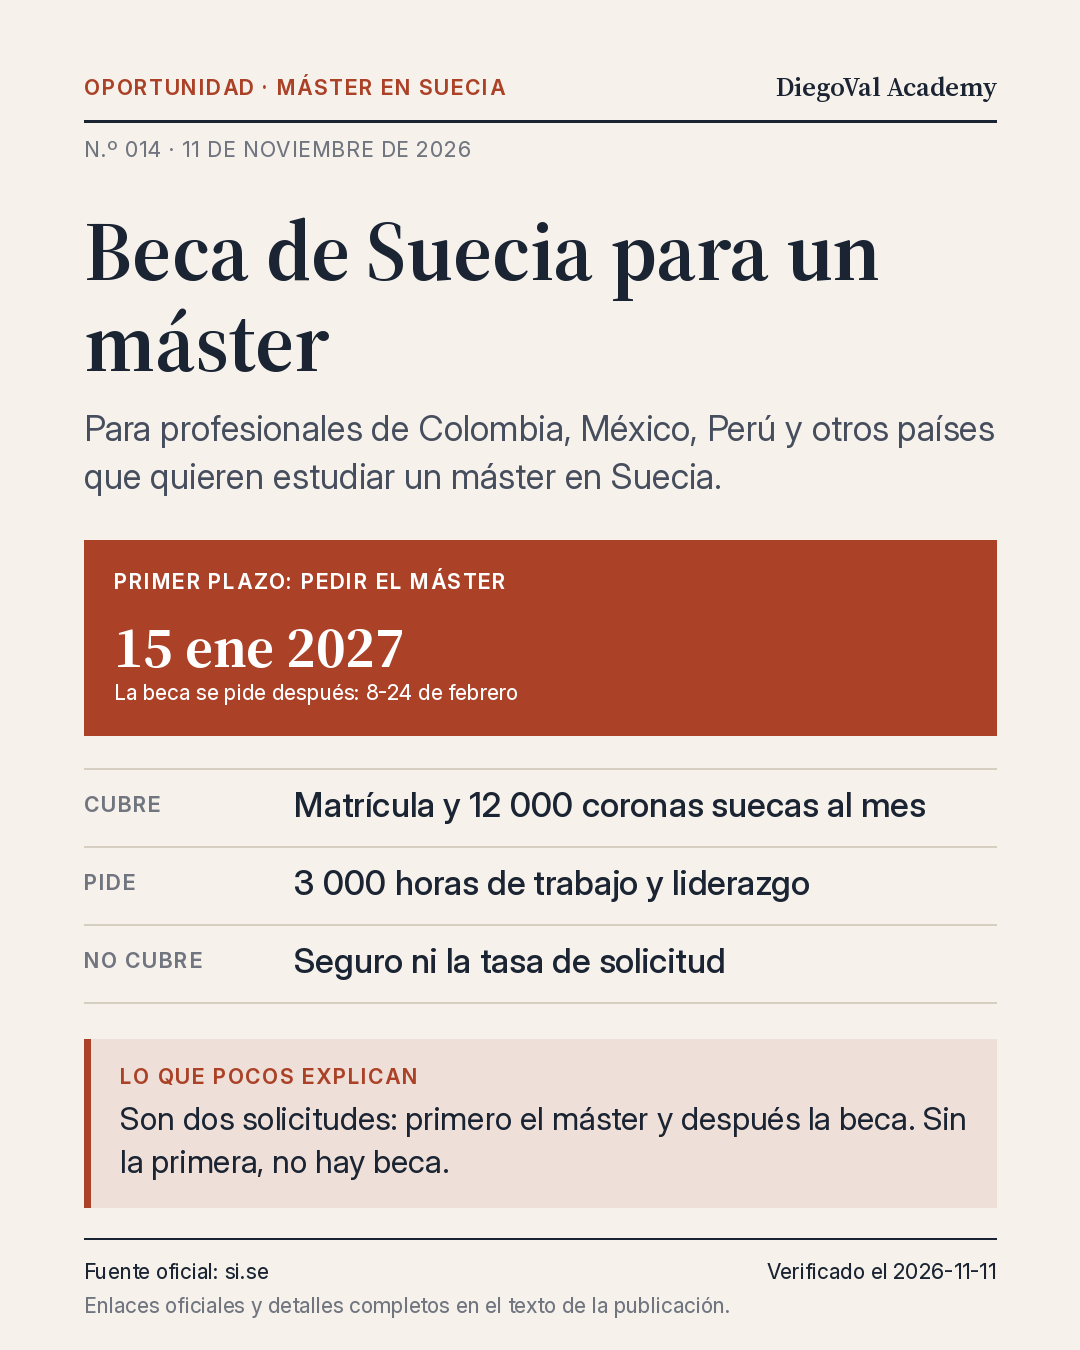
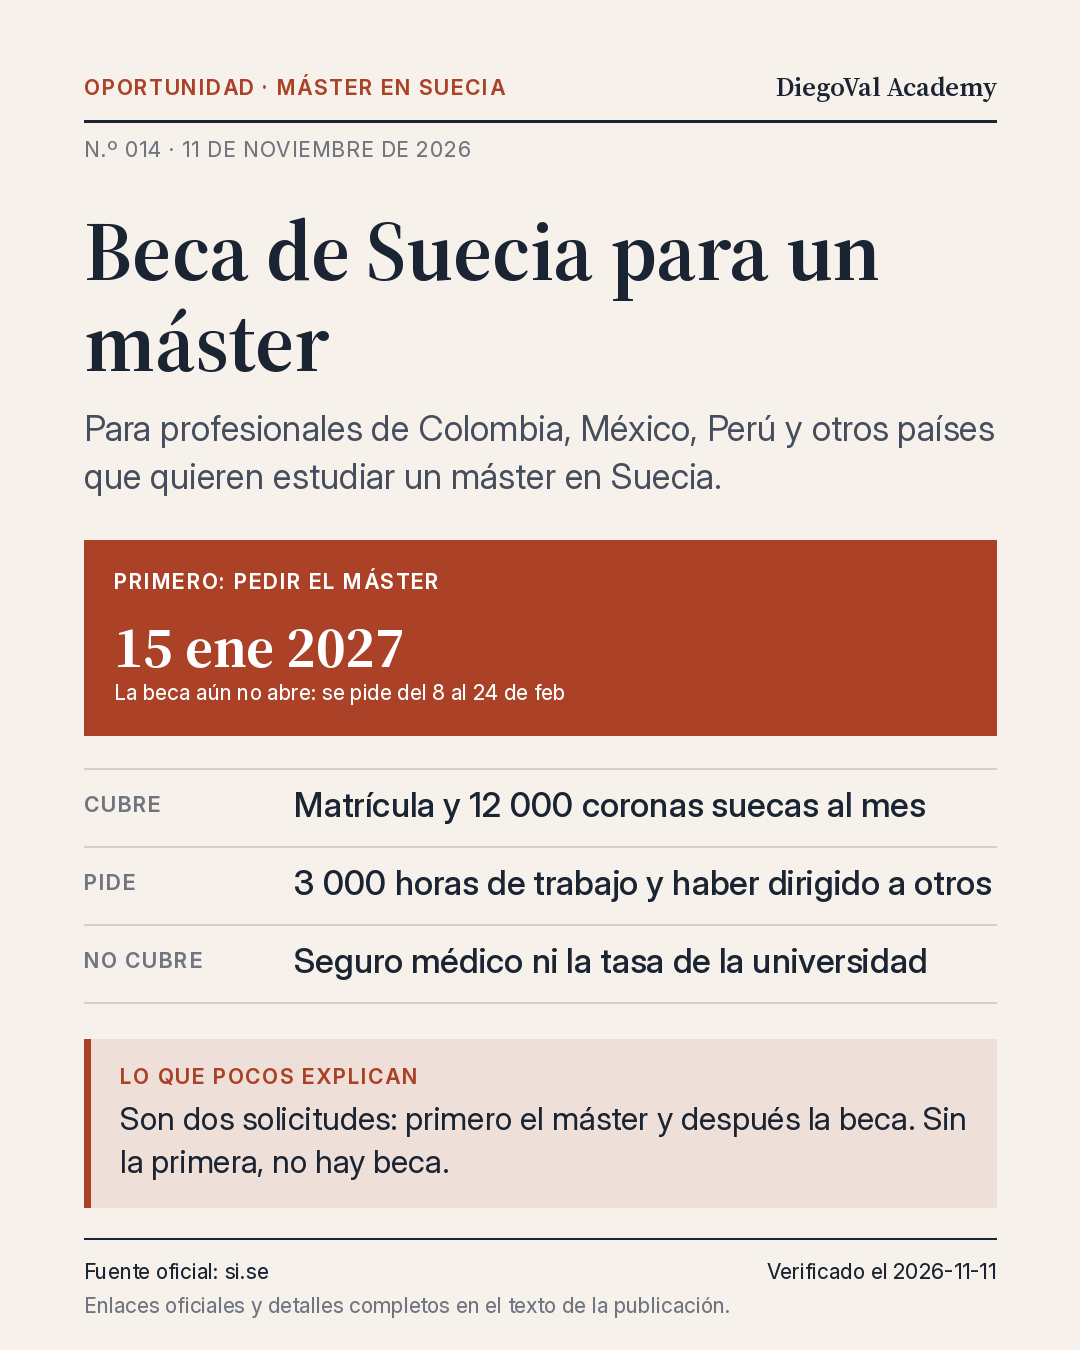
2026-11-11_miercoles_beca-suecia-profesionales: correcciones de lenguaje sencillo (pendiente de segunda verificación)
Claude-Session: https://claude.ai/code/session_01HRCw35JqbydqypZcr6Zxac

Changed region(s): [[0.3972, 0.6222, 0.9167, 0.7467], [0.1833, 0.4978, 0.5194, 0.5289], [0.1833, 0.4044, 0.4583, 0.4356]]

diff --git a/posts/2026-11-11_miercoles_beca-suecia-profesionales/caption.md b/posts/2026-11-11_miercoles_beca-suecia-profesionales/caption.md
@@ -1,20 +1,20 @@
-¿Quieres estudiar un máster en Suecia con beca? 🇸🇪 El Instituto Sueco (Swedish Institute), del gobierno de Suecia, tiene abierto el primer paso.
+¿Quieres estudiar un máster en Suecia con beca? 🇸🇪 El Instituto Sueco (Swedish Institute), del gobierno de Suecia, la ofrece. Aún no está abierta, pero ya puedes dar el primer paso.
 
 En corto:
-• Qué da: matrícula pagada, 12 000 coronas suecas al mes para vivir y 15 000 para el viaje (una vez). No cubre el seguro ni la tasa de solicitud.
-• Quién: ciudadanos de 34 países, como Bolivia, Brasil, Colombia, Ecuador, Guatemala, México y Perú. Piden 3 000 horas de trabajo antes de febrero de 2027 y liderazgo.
-• Plazos: primero pides el máster en universityadmissions.se, hasta el 15 de enero de 2027. Después, la beca: del 8 al 24 de febrero (hasta las 14:59, hora de Suecia).
+• Qué da: matrícula pagada, 12 000 coronas suecas al mes. No cubre el seguro médico ni la tasa de solicitud (lo que cobra la universidad por tramitar).
+• Quién: ciudadanos de 34 países, como Bolivia, Brasil, Colombia, Ecuador, Guatemala, México y Perú. Piden 3 000 horas de trabajo y haber dirigido personas o proyectos. No pueden pedirla quienes llevan 2 años o más en Suecia.
+• Plazos: primero el máster, en universityadmissions.se (portal oficial de Suecia), hasta el 15 de enero de 2027. La beca abre el 8 de febrero: del 8 al 24, hasta las 14:59 (hora de Suecia).
 
-Por qué es conocida: es el programa oficial de Suecia para másteres, se abre cada año y publica datos por país.
+Por qué es conocida: es el programa oficial de Suecia para másteres y se repite cada año.
 
-Lo que pocos explican: son dos solicitudes. Si no pides el máster a tiempo y pagas su tasa, no puedes pedir la beca. Guarda tu número de solicitud de 8 cifras.
+Lo que pocos explican: son dos solicitudes. Sin pedir el máster a tiempo, no hay beca.
 
 Cómo empezar:
-1. El 13 de noviembre la web oficial publica la lista de másteres con beca.
+1. El 13 de noviembre la web oficial (en inglés) publica los másteres con beca.
 2. Elige uno y pídelo antes del 15 de enero.
-3. Reúne tus comprobantes de trabajo.
+3. Pide a tu empresa el comprobante oficial de trabajo.
 
-Información oficial: https://si.se/en/apply/scholarships/swedish-institute-scholarships-for-global-professionals/
+Oficial: https://si.se/en/apply/scholarships/swedish-institute-scholarships-for-global-professionals/
 
 Verificado el: 2026-11-11
 

diff --git a/posts/2026-11-11_miercoles_beca-suecia-profesionales/validation.md b/posts/2026-11-11_miercoles_beca-suecia-profesionales/validation.md
@@ -1,0 +1,28 @@
+# Validación — 2026-11-11_miercoles_beca-suecia-profesionales
+
+Ejecutado: 2026-11-11T07:10:27+01:00
+Decisión: **BLOQUEADA: no publicar**
+
+| Estado | Comprobación | Detalle |
+|---|---|---|
+| PASS | Archivos obligatorios | imagen: post.json, post.png, caption.md, sources.md, metadata.json |
+| PASS | Metadatos | campos obligatorios presentes |
+| PASS | Imagen | 1080x1350 PNG, 1 archivo (+5 diapositivas de carrusel, ignoradas) |
+| PASS | Canal Buffer | DiegoVal Academy (6ae0bdf22f1f5ed648eb92f9) |
+| PASS | Verificación del día | 2026-11-11 |
+| PASS | Longitud del texto | 1291/1300 caracteres |
+| PASS | Fecha visible en el texto | Verificado el: 2026-11-11 |
+| PASS | Marcadores pendientes | ninguno |
+| PASS | Enlaces documentados en sources.md | 1 enlaces |
+| PASS | Enlace principal en el texto | https://si.se/en/apply/scholarships/swedish-institute-scholarships-for-global-professionals/ |
+| PASS | Lo que pocos explican | presente en imagen y texto |
+| PASS | Sin URLs en la imagen | sólo dominio de la fuente |
+| PASS | Lenguaje sencillo: siglas (texto) | todas explicadas o ninguna |
+| PASS | Lenguaje sencillo: palabras difíciles (texto) | sin burocracia ni calcos detectados |
+| PASS | Lenguaje sencillo: siglas (imagen) | todas explicadas o ninguna |
+| PASS | Lenguaje sencillo: palabras difíciles (imagen) | sin burocracia ni calcos detectados |
+| PASS | Lenguaje sencillo: frases largas | todas ≤ 32 palabras |
+| FAIL | Lenguaje sencillo: revisión del verificador | falta metadata.plain_language_check con la pregunta exacta, answer 'sí', reviewer y checked_text_sha256 (python3 scripts/validate_post.py <carpeta> --plain-hash) |
+| PASS | Evidencia de popularidad | 2 señales documentadas |
+| PASS | Duplicados | sin repeticiones en 20 filas de todas las plataformas (URL canónica, topic_key y vídeo; mismo día en otra red permitido) |
+| PASS | Enlace accesible | 200 https://si.se/en/apply/scholarships/swedish-institute-scholarships-for-global-professionals/ |

diff --git a/posts/2026-11-11_miercoles_beca-suecia-profesionales/validation_instagram.md b/posts/2026-11-11_miercoles_beca-suecia-profesionales/validation_instagram.md
@@ -1,0 +1,24 @@
+# Validación Instagram — 2026-11-11_miercoles_beca-suecia-profesionales
+
+Ejecutado: 2026-11-11T07:10:18+01:00
+Decisión: **BLOQUEADA: no publicar**
+
+| Estado | Comprobación | Detalle |
+|---|---|---|
+| PASS | Archivos obligatorios | 5 imágenes + caption + carousel.json |
+| FAIL | Base verificada (LinkedIn) | falta validation.md APROBADA: el carrusel reutiliza esa investigación |
+| PASS | Imágenes 1080×1350 PNG | 5 imágenes correctas |
+| PASS | Imágenes actualizadas | generadas desde el carousel.json actual |
+| PASS | Imágenes sin URL completa | sólo dominios |
+| PASS | Fecha de verificación | 2026-11-11 |
+| PASS | Caption breve | 543 caracteres (máx. 1000) |
+| PASS | Hashtags | 4 (rango 3-8) |
+| PASS | Verificado el | 2026-11-11 |
+| PASS | Lenguaje sencillo: siglas (texto) | todas explicadas o ninguna |
+| PASS | Lenguaje sencillo: palabras difíciles (texto) | sin burocracia ni calcos detectados |
+| PASS | Lenguaje sencillo: siglas (imagen) | todas explicadas o ninguna |
+| PASS | Lenguaje sencillo: palabras difíciles (imagen) | sin burocracia ni calcos detectados |
+| PASS | Lenguaje sencillo: frases largas | todas ≤ 32 palabras |
+| FAIL | Lenguaje sencillo: revisión del verificador | falta metadata.instagram.plain_language_check (pregunta exacta, answer 'sí', reviewer, checked_text_sha256 = python3 scripts/validate_carousel.py <carpeta> --plain-hash) |
+| PASS | Duplicados (Instagram) | sin repeticiones en ninguna plataforma (mismo día en LinkedIn permitido) |
+| PASS | Verificación de hoy | 2026-11-11 |

diff --git a/posts/2026-11-11_miercoles_beca-suecia-profesionales/caption_instagram.md b/posts/2026-11-11_miercoles_beca-suecia-profesionales/caption_instagram.md
@@ -1,12 +1,12 @@
 ¿Quieres un máster en Suecia con beca? 🇸🇪
 
-El Instituto Sueco, del gobierno de Suecia, da una beca para estudiar un máster allí.
+El Instituto Sueco, del gobierno de Suecia, da una beca para estudiar un máster allí. La beca aún no está abierta, pero ya puedes dar el primer paso.
 
 ✅ Paga la matrícula y 12 000 coronas suecas al mes
 ✅ Primero pides el máster: hasta el 15 de enero de 2027
-✅ Después pides la beca: del 8 al 24 de febrero de 2027
+✅ La beca abre el 8 de febrero (se pide del 8 al 24)
 
-Esta semana: mira si tu país está en la lista y revisa tus horas de trabajo (piden 3 000). Información oficial en si.se
+Esta semana: mira si tu país está en la lista y cuenta tus horas de trabajo (piden 3 000). Web oficial, en inglés: si.se
 
 Verificado el: 2026-11-11
 
